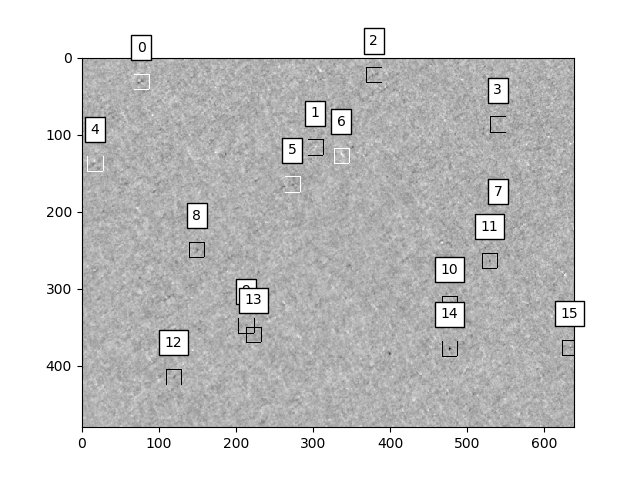
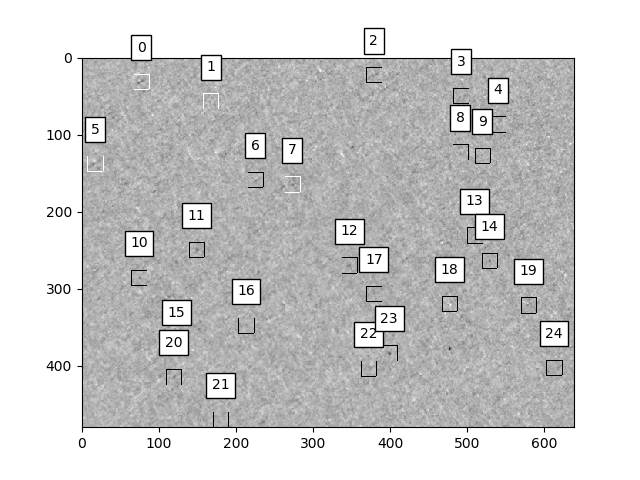
altered bowtie density

diff --git a/11_apply_clf.py b/11_apply_clf.py
@@ -34,6 +34,8 @@ from sklearn.externals import joblib
 os.chdir('C:\\Users\\Logan Rowe\\Desktop\\bowtie-defect-identification')
 import data_prep as dp
 
+import timeit
+
 xdim,ydim=640,480
 
 psdr=False
@@ -127,6 +129,7 @@ for i in filenames:
     
     #IF IMAGE DOES PASS SUBDIVIDE IMAGE AND GET LOCATION OF MAX SHEAR MAX
     dx,dy=160,120 #To make 16 images per 5x shear max image
+    dx,dy=128,96
     subimages=basic.subsub(imgM,xdim,ydim,dx,dy)
 
     #RECORD LOCATIONS OF PEAK RETARDATIONS
@@ -147,6 +150,7 @@ for i in filenames:
     
     clf=joblib.load(clf_dir+'\\XGBC_img_classifier.pkl')
     p_crit=0.8 #yields the highest classifier recall without suffering a serious drop in precision
+    
     
     bowtie_classes=[]
     for pixel in maxidx:
